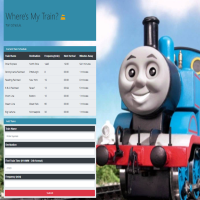
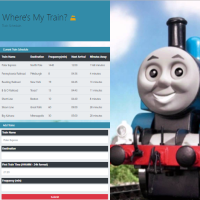
contact page

diff --git a/contact.html b/contact.html
@@ -91,8 +91,40 @@
 
     </header>
 
-    <section>
+    <div class="boxSpacer"></div>
 
+    <section>
+        <div class="container">
+
+            <h2>Contact</h2>
+            <div class="container boxStyle padMe overflow-auto">
+                <div class="row">
+                    <div class="col-md-12">
+                        <form action="javascript:alert('Under Construction!');" method="post"
+                            enctype="text/plain">
+                            <div class="form-group">
+                                <label for="formGroupExampleInput">Name</label>
+                                <input type="text" class="form-control" id="formGroupExampleInput"
+                                    placeholder="ex. John Smith">
+                            </div>
+                            <div class="form-group">
+                                <label for="exampleFormControlInput1">Email</label>
+                                <input type="email" class="form-control" id="exampleFormControlInput1"
+                                    placeholder="name@example.com">
+                            </div>
+                            <div class="form-group">
+                                <label for="exampleFormControlTextarea1">Message</label>
+                                <textarea class="form-control" id="exampleFormControlTextarea1"
+                                    rows="2"></textarea>
+                            </div>
+                            <button type="submit" Value="Submit" class="btn pgStyle"
+                                ><i class="fas fa-paper-plane"></i> Submit</button>
+                        </form>
+                    </div>
+                </div>
+            </div>
+
+        </div>
     </section>
 
 
